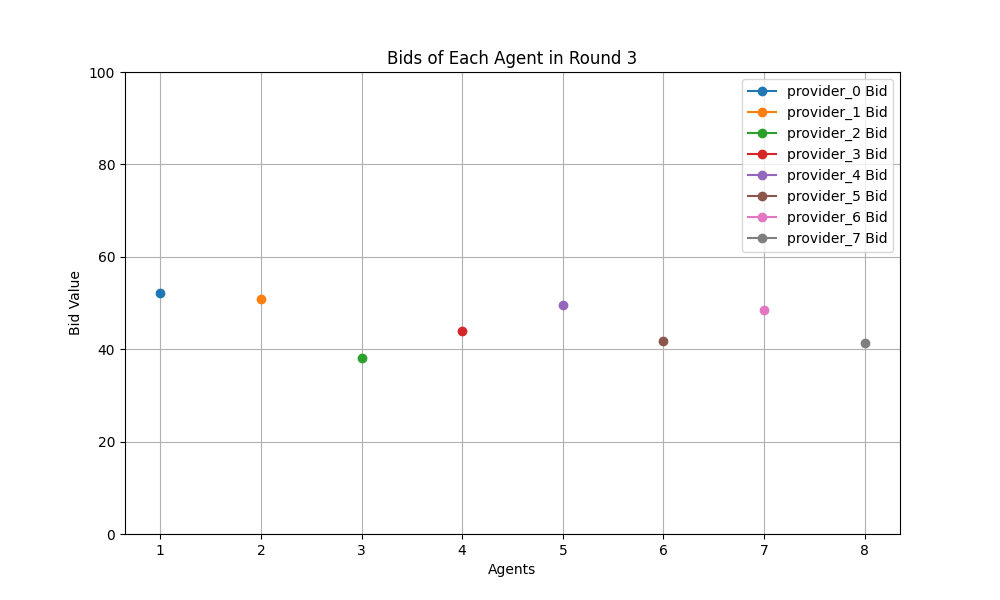
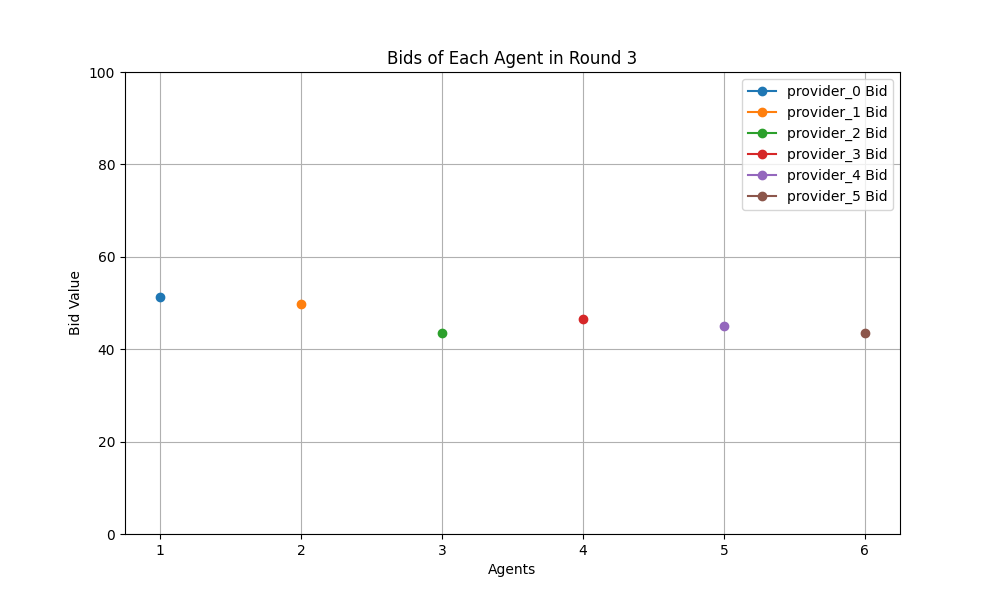
minor changes

diff --git a/testing/test.py b/testing/test.py
@@ -33,7 +33,7 @@ def analyze_auction_data(input_folder, output_folder, max_bidders=9, min_bidders
     winning_prices = []
     round_percentage_diffs = []
     winning_bid_diffs = []
-    participant_final_diffs = {f"provider_{i}": [] for i in range(9)}  # Track differences per participant
+    participant_final_diffs = {f"provider_{i}": [] for i in range(max_bidders)}  # Track differences per participant
     rank_differences = []  # Track differences between rank 1 and rank 2
 
     for file in all_files:
@@ -111,12 +111,25 @@ def analyze_auction_data(input_folder, output_folder, max_bidders=9, min_bidders
     plt.bar(sorted_winner_counts.keys(), sorted_winner_counts.values(), label="Actual Distribution")
 
     # Add theoretical distribution as a line plot
-    average_num_bidders = (min_bidders + max_bidders) / 2
-    providers = sorted(sorted_winner_counts.keys())
-    participation_prob = [(max_bidders - int(agent.split("_")[1])) / (max_bidders - min_bidders + 1) for agent in
-                          providers]
-    expected_wins = [total_auctions * prob * (1 / average_num_bidders) for prob in participation_prob]
-    plt.plot(providers, expected_wins, marker='o', linestyle='-', color='red', label="Theoretical Distribution")
+    expected_wins = {provider: 0 for provider in sorted(participant_final_diffs.keys())}
+
+    # Probability of an auction having N bidders (assuming uniform distribution)
+    auction_size_probabilities = {N: 1 / (max_bidders - min_bidders + 1) for N in range(min_bidders, max_bidders + 1)}
+    for N in range(min_bidders, max_bidders + 1):
+        P_N = auction_size_probabilities[N]  # Probability of having exactly N bidders in an auction
+
+        # Determine participants in an auction with N bidders
+        participants = ["provider_0", "provider_1"] + [f"provider_{i}" for i in range(2, N)]
+
+        # Each participant has a 1/N chance of winning
+        win_prob = 1 / N
+
+        # Compute expected wins for each provider
+        for provider in participants:
+            expected_wins[provider] += total_auctions * P_N * win_prob
+    # Sort expected wins for plotting
+    sorted_expected_wins = [expected_wins[provider] for provider in sorted(participant_final_diffs.keys())]
+    plt.plot(sorted(participant_final_diffs.keys()), sorted_expected_wins, marker='o', linestyle='-', color='red', label="Theoretical Distribution")
 
     plt.xlabel("Agents")
     plt.ylabel("Number of Wins")

diff --git a/testing/test_responce_time.py b/testing/test_responce_time.py
@@ -1,8 +1,8 @@
 import requests
 import time
-from concurrent.futures import ThreadPoolExecutor, as_completed
+import matplotlib.pyplot as plt
 
-url = "http://127.0.0.1:8001/price_calculation"
+url = "http://127.0.0.1:8000/price_calculation"
 headers = {
     "accept": "application/json",
     "Content-Type": "application/json"
@@ -30,25 +30,25 @@ data = {
     ]
 }
 
+response_times = []
+iterations = 100  # Number of sequential requests
 
-def send_request():
+for i in range(iterations):
     start_time = time.time()
     response = requests.post(url, headers=headers, json=data)
     elapsed_time = (time.time() - start_time) * 1000  # Convert to milliseconds
-    return elapsed_time, response.status_code, response.text
+    response_times.append(elapsed_time)
+    print(f"Request {i+1}: {elapsed_time:.2f} ms | Status: {response.status_code}")
 
-
-total_time = 0
-iterations = 20  # Number of parallel requests
-concurrent_requests = 2  # Number of concurrent requests
-
-with ThreadPoolExecutor(max_workers=concurrent_requests) as executor:
-    futures = [executor.submit(send_request) for _ in range(iterations)]
-
-    for i, future in enumerate(as_completed(futures), 1):
-        elapsed_time, status_code, response_text = future.result()
-        total_time += elapsed_time
-        print(f"Request {i}: {elapsed_time:.2f} ms | Status: {status_code}")
-
-avg_time = total_time / iterations
+avg_time = sum(response_times) / iterations
 print(f"\nAverage Response Time: {avg_time:.2f} ms")
+
+# Plotting the frequency diagram of the response times
+plt.figure(figsize=(10, 6))
+plt.hist(response_times, bins=10, edgecolor='black')
+plt.axvline(avg_time, color='red', linestyle='dashed', linewidth=1, label=f'Average: {avg_time:.2f} ms')
+plt.xlabel('Response Time (ms)')
+plt.ylabel('Frequency')
+plt.title('Response Time Frequency Distribution')
+plt.legend()
+plt.savefig('response_time_histogram.png')

diff --git a/evaluation/evaluate.py b/evaluation/evaluate.py
@@ -8,6 +8,7 @@ import time
 
 
 def evaluate(env_fn, render_mode: str | None = None, model_path='models/test', **env_kwargs):
+    start_time = time.perf_counter()
     # Load the environment
     def env_creator(_):
         env = env_fn(render_mode=render_mode, **env_kwargs)
@@ -36,6 +37,9 @@ def evaluate(env_fn, render_mode: str | None = None, model_path='models/test', *
         .build()
     )
     algo.restore(model_path)
+    end_time = time.perf_counter()
+    elapsed_time = end_time - start_time
+    print(f"env & loading : {elapsed_time:.6f} seconds")
 
     start_time = time.perf_counter()
 
@@ -47,7 +51,7 @@ def evaluate(env_fn, render_mode: str | None = None, model_path='models/test', *
 
     end_time = time.perf_counter()
     elapsed_time = end_time - start_time
-    print(f"Elapsed time: {elapsed_time:.6f} seconds")
+    print(f"running: {elapsed_time:.6f} seconds")
 
     # Print and return results
     print("Evaluation Results:")

diff --git a/environment/reverse_auction_env.py b/environment/reverse_auction_env.py
@@ -54,6 +54,9 @@ class ReverseAuctionEnv(ParallelEnv):
             self.min_limit_bid = np.random.randint(20, 40, size=self.num_bidders)
             self.max_limit_bid = np.random.randint(80, 100, size=self.num_bidders)
             self.curr_bids = np.random.uniform(self.min_limit_bid, self.max_limit_bid)
+            # if self.num_bidders > 3:
+            #     self.curr_bids = [val + 50 if i != 3 else val for i, val in enumerate(self.curr_bids)]
+            #     self.max_limit_bid = np.maximum(self.max_limit_bid, self.curr_bids)
             self.possible_agents = ["provider_" + str(r) for r in range(self.num_bidders)]
 
         self.agents = self.possible_agents[:]

diff --git a/API.py b/API.py
@@ -54,7 +54,7 @@ async def calculate_price(payload: ServicesPayload):
     service_name = services[0].service_id #TODO service_id is the same for all providers
     for service in services:
         possible_agents.append(service.provider_id)
-        initial_prices.append(service.maxprice)
+        initial_prices.append((service.maxprice+service.minprice)/2)
         providers_min_prices.append(service.minprice)
     num_bidders = len(possible_agents)
     max_rounds = 10

diff --git a/utils/helpers.py b/utils/helpers.py
@@ -7,7 +7,7 @@ multipliers = np.arange(1.99, 0.01, -0.01).round(2)
 def get_results(bids, agent_list):
     # Determine the winner and winning price
     winner_data = {"winner": agent_list[np.argmin(bids)], "price": int(np.min(bids))}
-    
+
     # Write results to a JSON file
     with open('auction_results.json', 'w') as json_file:
         json.dump(winner_data, json_file, indent=4)
